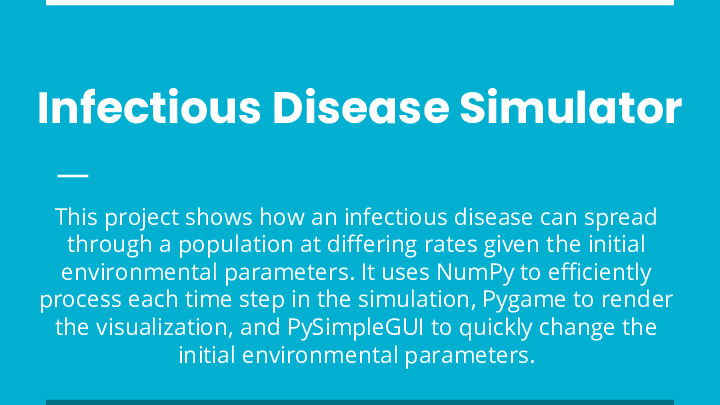
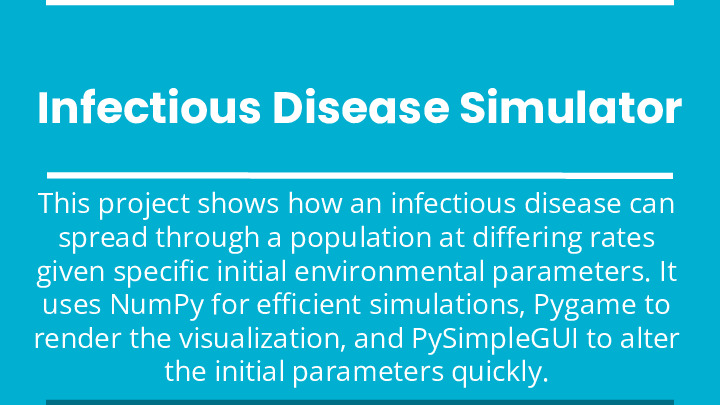
reworded project summaries and compressed asset img files for faster loading

Changed region(s): [[0.0306, 0.4741, 0.9472, 0.9481], [0.0611, 0.4148, 0.9472, 0.4444]]

diff --git a/templates/index.html b/templates/index.html
@@ -91,8 +91,8 @@
         <div class="section-title">
           <h2>About</h2>
           <p>I believe a life well lived is spent bettering oneself and the world around them.
-            I take this ideal to heart everyday by striving to always be improving myself, furthering
-            my skills in programming and bioinformatics to hopefully help make a difference one day.
+            I take this ideal to heart by striving to always be improving myself in
+            order to hopefully make a difference in the world with my career.<br><br>
             Currently I am enrolled in a M.Sc in Bioinformatics at Northeastern University and am
             looking for summer 2021 internship opportunities in the Seattle area.
           </p>
@@ -138,9 +138,11 @@
         <div class="section-title">
           <h2>Skills</h2>
           <p>
-            My programming journey began in 2015 with Harvard's free online course CS50.
-            I soon became fascinated with the study of computer science and how
-            computational power can be leveraged to tackle complex problems.
+            My programming journey began in 2015 with Harvard's free online course <a
+              href="https://online-learning.harvard.edu/course/cs50-introduction-computer-science?delta=0"
+              target="_blank" rel="noopener noreferrer">CS50</a>.
+            I quickly became fascinated with the study of computer science and how
+            computational power can be leveraged to tackle complex, meaningful problems.
           </p>
           <!--Python
             is where I am most comfortable but I also love the flexibility
@@ -221,8 +223,13 @@
           </p>
           <br>
           <p>
-            To learn more select an image below and click the plus icon or follow the link icon to the project itself.
+            To learn more about a project
           </p>
+          <ul>
+            <li>Select an image</li>
+            <li>Click the <i class="bx bx-plus"></i> icon for a summary of the project</li>
+            <li>Click the <i class="bx bx-link"></i> icon to see the project itself</li>
+          </ul>
         </div>
 
         <div class="row" data-aos="fade-up">
